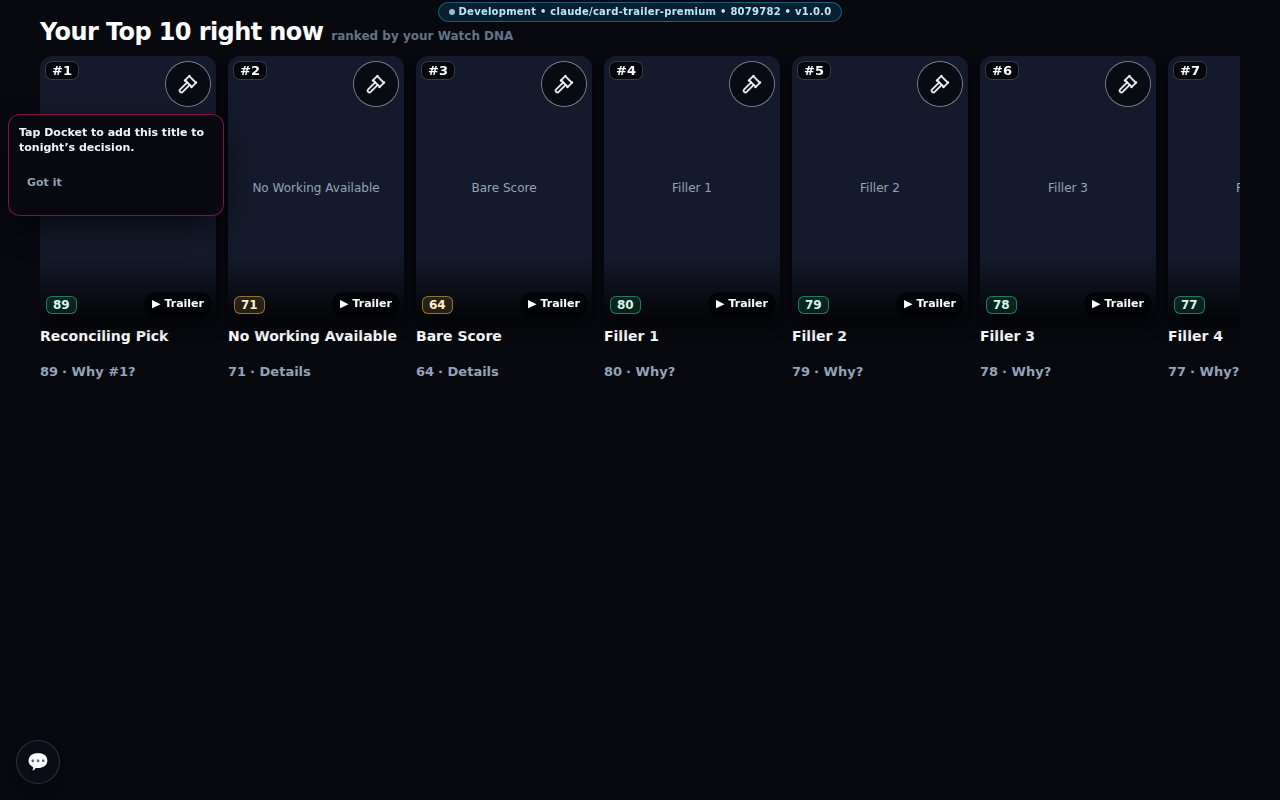
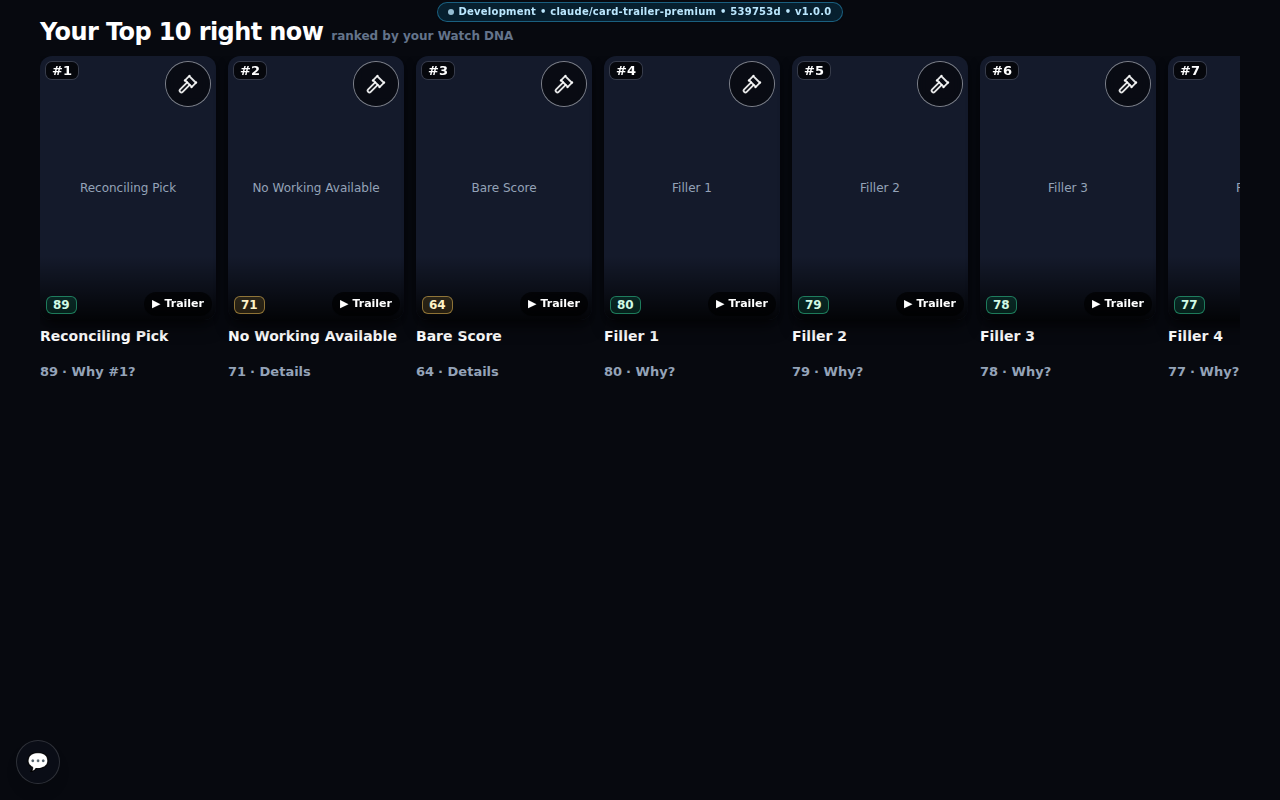
docs(review): recapture the review frames against the card that ships
The `after-*` frames were taken before the information-budget change, so the
review package was showing a heavier card than the branch ships — a reviewer
comparing the PR's claims against the committed evidence would have found them
disagreeing. Every `after-*` frame is regenerated at the current build, with the
first-run Docket coach mark dismissed (it sat over a poster and is not what
these frames are for) and captured full-page, so the whole grid is in frame
rather than the first row and a half.

The README now says what the empty space in them is. The harness fixtures carry
no TMDB payload, so score, synopsis, reason and provider row resolve to nothing
and each shows as the height it RESERVES. That is what makes a row line up and
it is the property these frames exist to show, but it is not a picture of a
populated card, and the README says so rather than letting the frames imply it.

Backlog records PR #63 in Now with its measured numbers, and queues the one
thing this work uncovered rather than fixed: `CardFit` has no callers left.

Claude-Session: https://claude.ai/code/session_018E9o9ybRhsLciAPaG3FECH

Changed region(s): [[0.0, 0.125, 0.1875, 0.2812], [0.5625, 0.0, 0.625, 0.0312]]

diff --git a/docs/review/card-trailer/README.md b/docs/review/card-trailer/README.md
@@ -5,13 +5,25 @@ components: `/dev/visual-qa` (the real `PosterCard` grid) and `/dev/top10` (the
 real `Top10Rail`). Committed here so the change can be reviewed from the pull
 request without running anything.
 
+Every `after-*` frame was **recaptured after the information-budget change**, so
+what is committed here is the card the branch ships — not the earlier, heavier
+one. If a frame and the description below ever disagree, the frame is stale and
+should be regenerated rather than explained.
+
 | File | What it shows |
 | --- | --- |
 | `before-toppicks-1440.png` | Top Picks at `aa82bba`: 5.5rem grey numerals behind the artwork, posters offset to clear them, detached coloured "89 HOW?" boxes |
 | `after-toppicks-1440/1280/390.png` | Poster-dominant rail: `#N` chip on the artwork, the app's own verdict colour on the score, restrained "Why #1?" |
 | `before-grid-1440.png` / `before-card-390.png` | The browse grid before |
-| `after-grid-1440/1280.png`, `after-card-390.png` | After: aligned rows, reserved title block, More info |
+| `after-grid-1440/1280.png`, `after-card-390.png` | After: aligned rows, reserved title block, the reduced card, More info |
 | `after-grid-trailer-1440/1280.png`, `after-card-trailer-390.png` | **A trailer playing.** Compare the outer geometry against the matching non-trailer frame — it is identical |
+
+**Read the empty space honestly.** The harness fixtures carry no TMDB payload,
+so the score, synopsis, reason and provider row resolve to *nothing* and each
+one shows as the height it reserves. That is the point of these frames — they
+show the SHAPE the card holds regardless of what arrives, which is exactly what
+makes a row line up — but they are not a picture of a populated card. For that,
+see the live app.
 
 ## The interaction contract
 
@@ -52,3 +64,26 @@ to equal its media frame's box exactly.
 - **Rows did not line up.** A one-line title reserved one line and a two-line
   title reserved two, so every block below — facts, score, synopsis, provider
   row — started at a different height across a row.
+- **A wrapping metadata line stood one card 11px taller** at 390: `2022 ·
+  Acción · Comedia` wrapped where `1995` did not. It truncates now.
+
+## The information budget
+
+The browse card is for **deciding**; the title page is for **investigating**.
+
+Kept: the poster/trailer frame, the title with year and type, the Verd1ct score
+and its call, a short FIXED synopsis, ONE grounded reason, the compact provider
+row, FOR / AGAINST / SAVE, and More info.
+
+Moved to the title page: the expandable long synopsis, the full reason stack,
+the detailed source ratings, the Taste DNA sentence (`CardFit`, now with zero
+callers), and everything the card never rendered anyway — cautions, expanded
+availability, cast.
+
+The card is not contentless: the synopsis stays, clamped and reserved. What
+went is the control that could *grow* the card, not the text.
+
+Measured on these exact frames: **730px** at 1440 and 1280, **516px** at 390,
+with a **0px** spread across every card at every width. `card-budget.spec.ts`
+holds that line, including a pass that clicks every expandable-looking control
+on a card and requires its outer height not to move.

diff --git a/BACKLOG.md b/BACKLOG.md
@@ -4,6 +4,29 @@ Updated at the end of every work order per the Working Agreement in
 `CLAUDE.md`. Sections: **Now**, **Next**, **Blocked**, **Done**.
 
 ## Now
+- **Cards and trailers — `claude/card-trailer-premium` (PR #63, open, not
+  merged).** The 20 inherited mobile failures are 0 because the product was
+  fixed, not the specs: an unnamed provider was throwing during render and
+  taking the whole results page into the error boundary (8), and every trailer
+  control was under the 44px tap minimum (12). On top of that the trailer
+  interaction contract is now enforced by measurement — a trailer may never
+  change the outer dimensions of a card — Top Picks lost its second colour
+  language, and the browse card has an **information budget**: it decides, the
+  title page investigates. Ratings, the expandable synopsis, the full reason
+  stack and `CardFit` moved off it; a short fixed synopsis and one grounded
+  reason stayed. Measured 730px at 1440/1280 and 516px at 390 with a 0px spread.
+  Main merged in (Showdown, taste axes, Verdict Room interior, read-only eval
+  evidence); the one genuine disagreement with main's provider hotfix #65 is
+  resolved in `resolveProviderBrand` — an exact provider id is a key and still
+  names a brand, while name resemblance stays forbidden.
+  Gates green at `539753d`: typecheck 0, lint 0, vitest 0 (3823 passed),
+  build 0, searchrouting 0 (21 passed), full mobile 0 (**1113 passed, 1
+  feature-detected skip, 0 failed**).
+  **Discovered on the way, for the queue:** `CardFit` now has zero callers —
+  it is the "why YOU, specifically" sentence and belongs on the title page,
+  which is where the budget says it goes. Wiring it in there is its own small
+  work order, not this one.
+
 - **The Verdict Room — `claude/verdict-room-complete`.** PR #58's entrance
   reconciled onto current `main` and carried through the WHOLE room, so the
   interior no longer collapses back to a stack of `max-w-2xl` cards the moment
